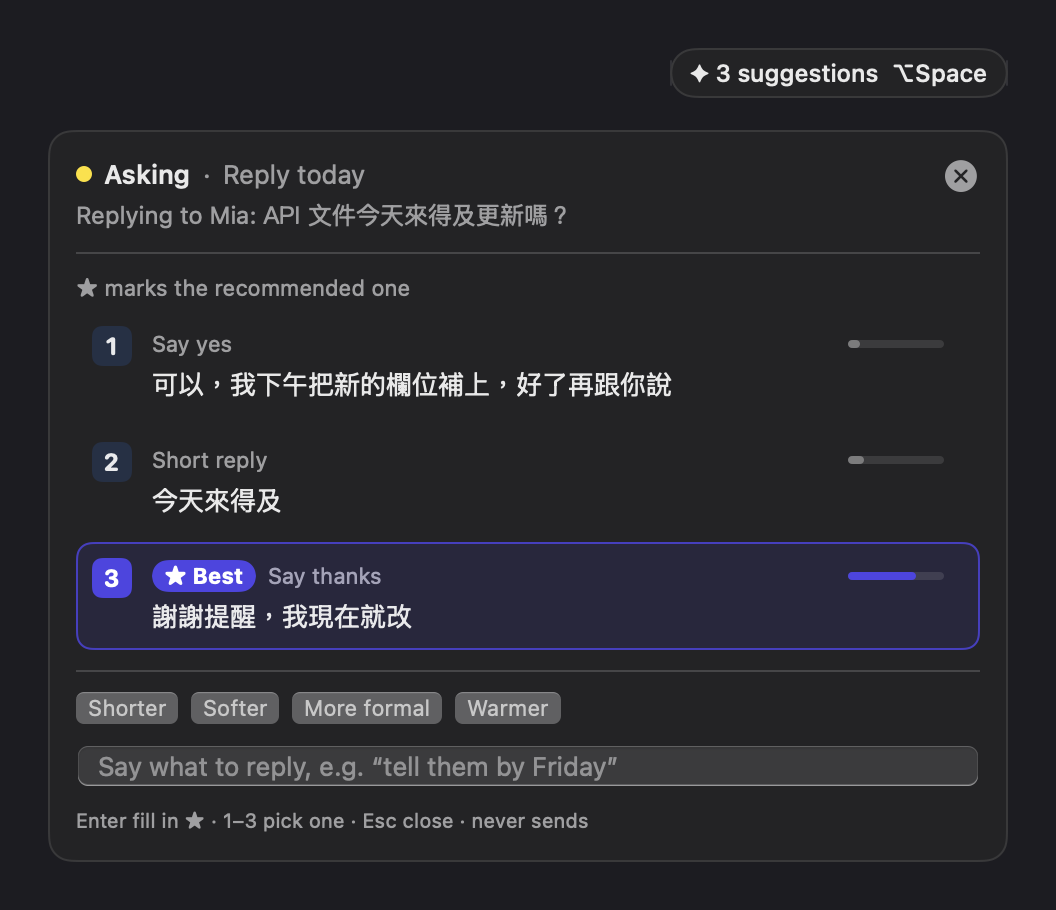
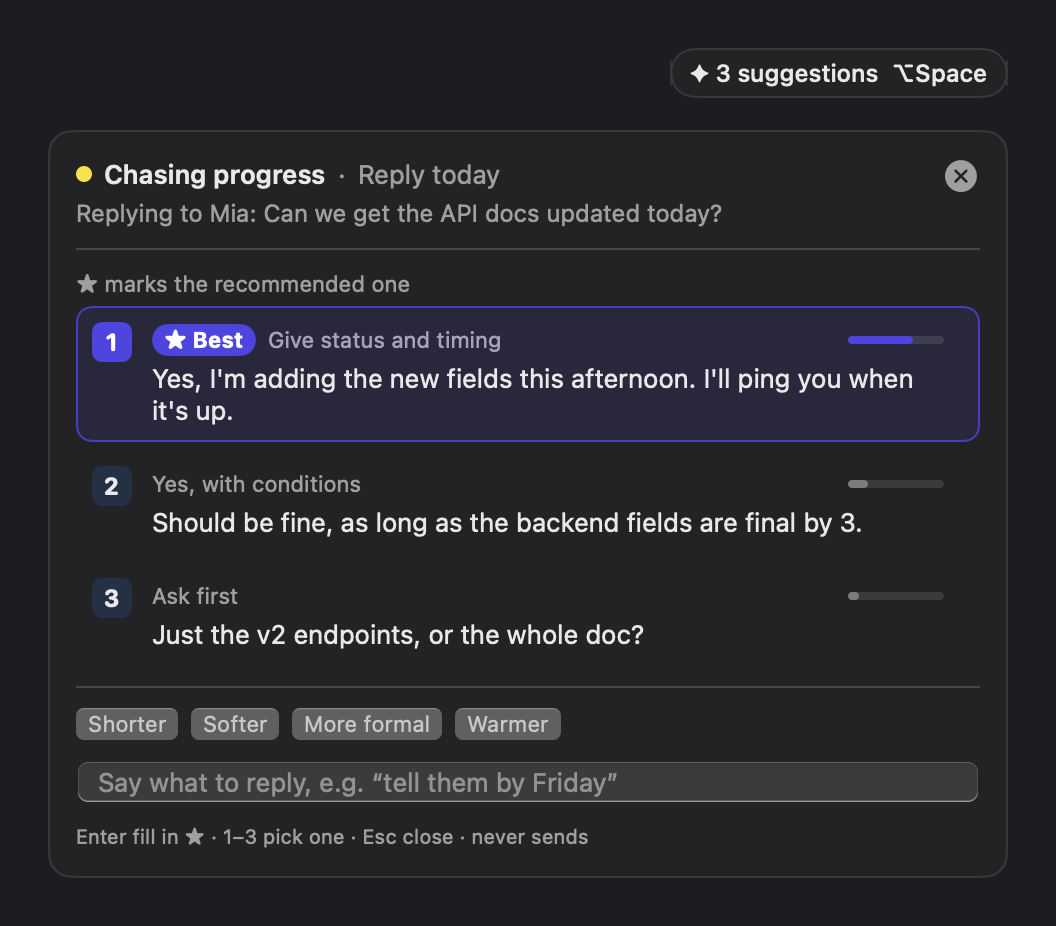
docs: English screenshot shows an English chat; best draft in both answers the question asked

diff --git a/Sources/Wingman/AppModel.swift b/Sources/Wingman/AppModel.swift
@@ -57,20 +57,32 @@ final class AppModel: ObservableObject {
     }
 
     /// Sample state for `Wingman --render`, so panel changes can be looked at before shipping.
+    /// A made-up chat for `--render`, in Chinese under a Chinese interface and in English otherwise,
+    /// since drafts follow the chat's language.
     func loadSample(phase: Phase, drafts: Int = 3, scored: Bool = true) {
+        let chinese = interfaceLanguage.hasPrefix("zh")
         chatInFront = true
         conversation = Conversation(
-            title: "#開發", isThread: true,
-            messages: [ChatMessage(sender: "Mia", time: "中午 12:39", text: "API 文件今天來得及更新嗎？")],
+            title: chinese ? "#開發" : "#dev", isThread: true,
+            messages: [ChatMessage(sender: "Mia", time: chinese ? "中午 12:39" : "12:39 PM",
+                                   text: chinese ? "API 文件今天來得及更新嗎？" : "Can we get the API docs updated today?")],
             draft: "", composerHandle: -1, composerFrame: CGRect(x: 0, y: 0, width: 560, height: 40))
-        judgment = Judgment(intent: "問資訊", intentConfidence: 0.9, needsReply: 0.8, urgency: 1.2,
+        judgment = Judgment(intent: "催進度或要時間", intentConfidence: 0.9, needsReply: 0.9, urgency: 1.2,
                             strategies: [])
         self.phase = phase
         if drafts > 0 {
             candidates = [
-                Candidate(strategy: "直接答應", text: "可以，我下午把新的欄位補上，好了再跟你說", score: 0.12),
-                Candidate(strategy: "簡短回應", text: "今天來得及", score: 0.17),
-                Candidate(strategy: "表達感謝", text: "謝謝提醒，我現在就改", score: 0.71),
+                Candidate(strategy: "給進度和時間",
+                          text: chinese ? "來得及，我下午把新的欄位補上，好了跟你說"
+                                        : "Yes, I'm adding the new fields this afternoon. I'll ping you when it's up.",
+                          score: 0.68),
+                Candidate(strategy: "答應但附條件",
+                          text: chinese ? "可以，但後端的欄位要先定案，三點前給我就行"
+                                        : "Should be fine, as long as the backend fields are final by 3.",
+                          score: 0.21),
+                Candidate(strategy: "先問清楚",
+                          text: chinese ? "只改 v2 的部分，還是整份都要更新？" : "Just the v2 endpoints, or the whole doc?",
+                          score: 0.11),
             ].prefix(drafts).map { scored ? $0 : Candidate(strategy: $0.strategy, text: $0.text) }
         }
     }
